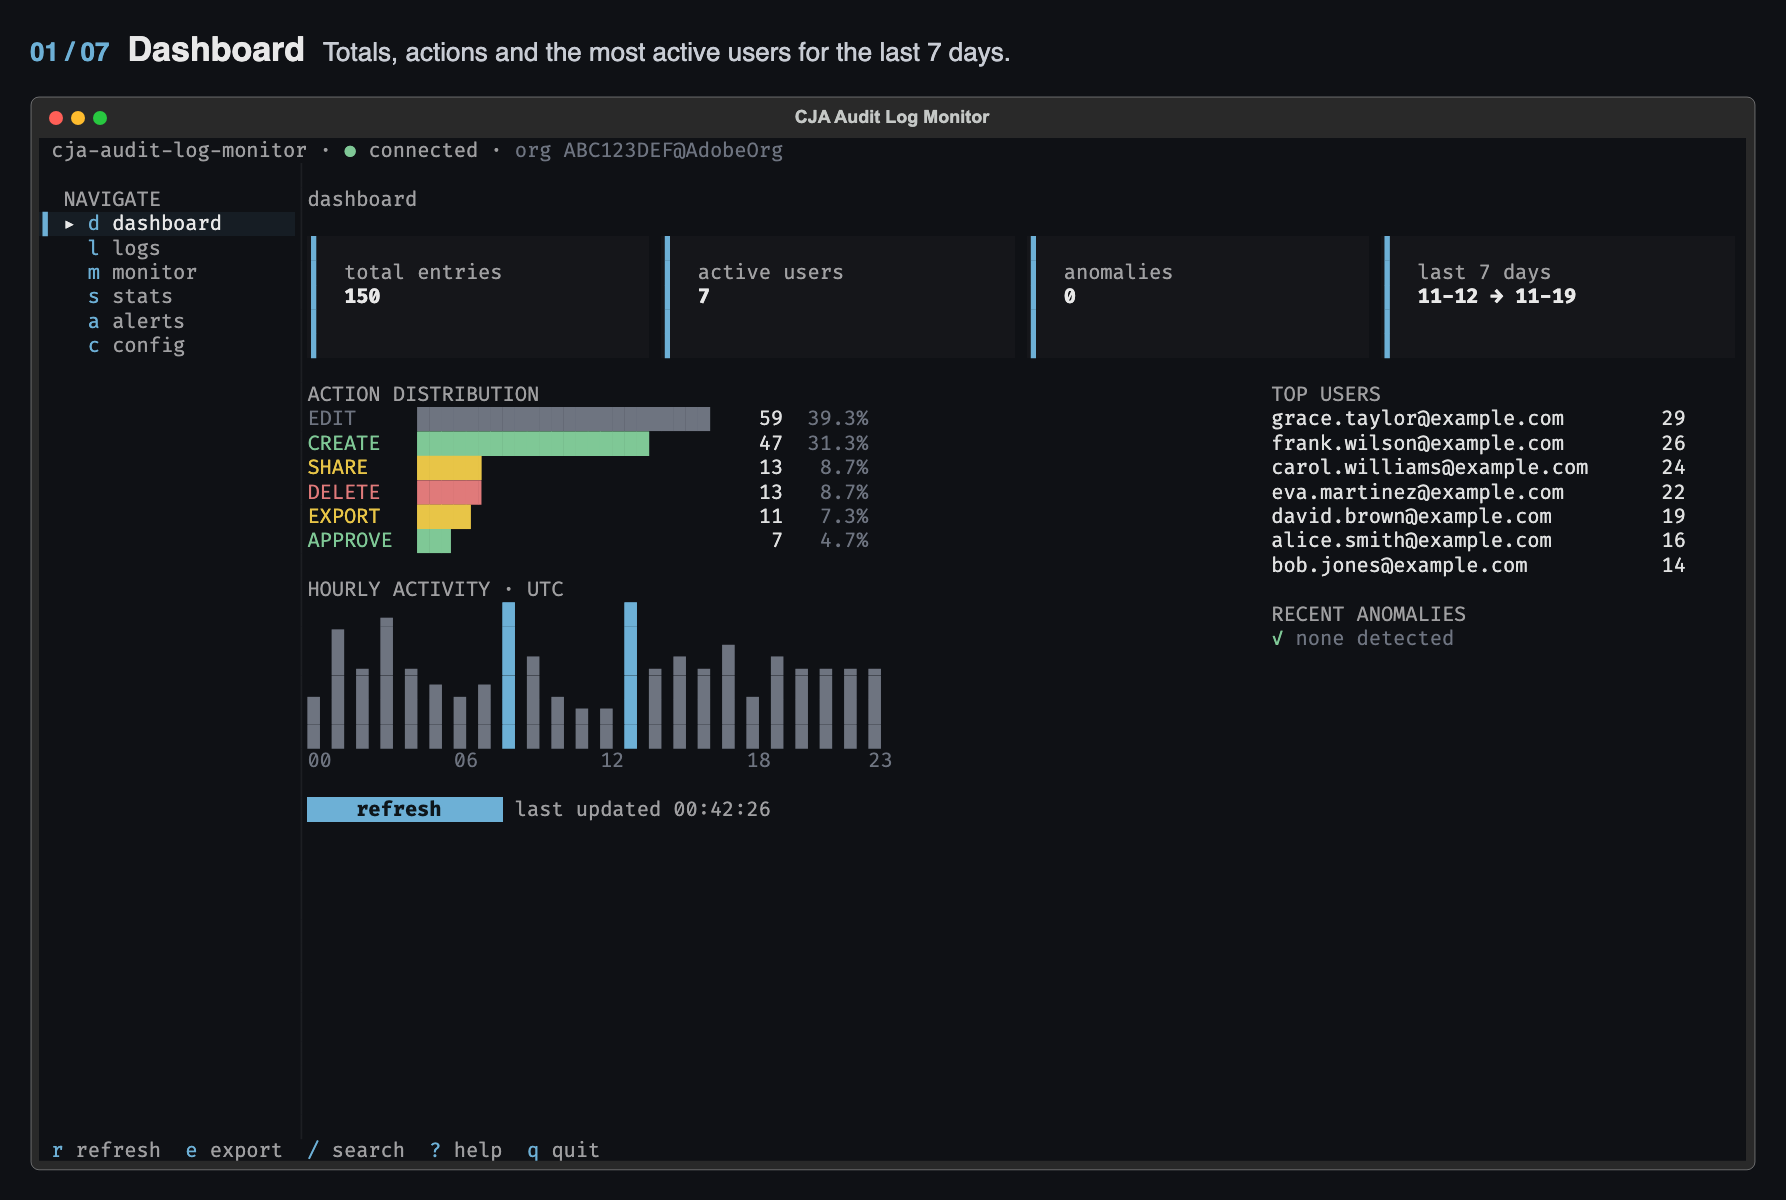
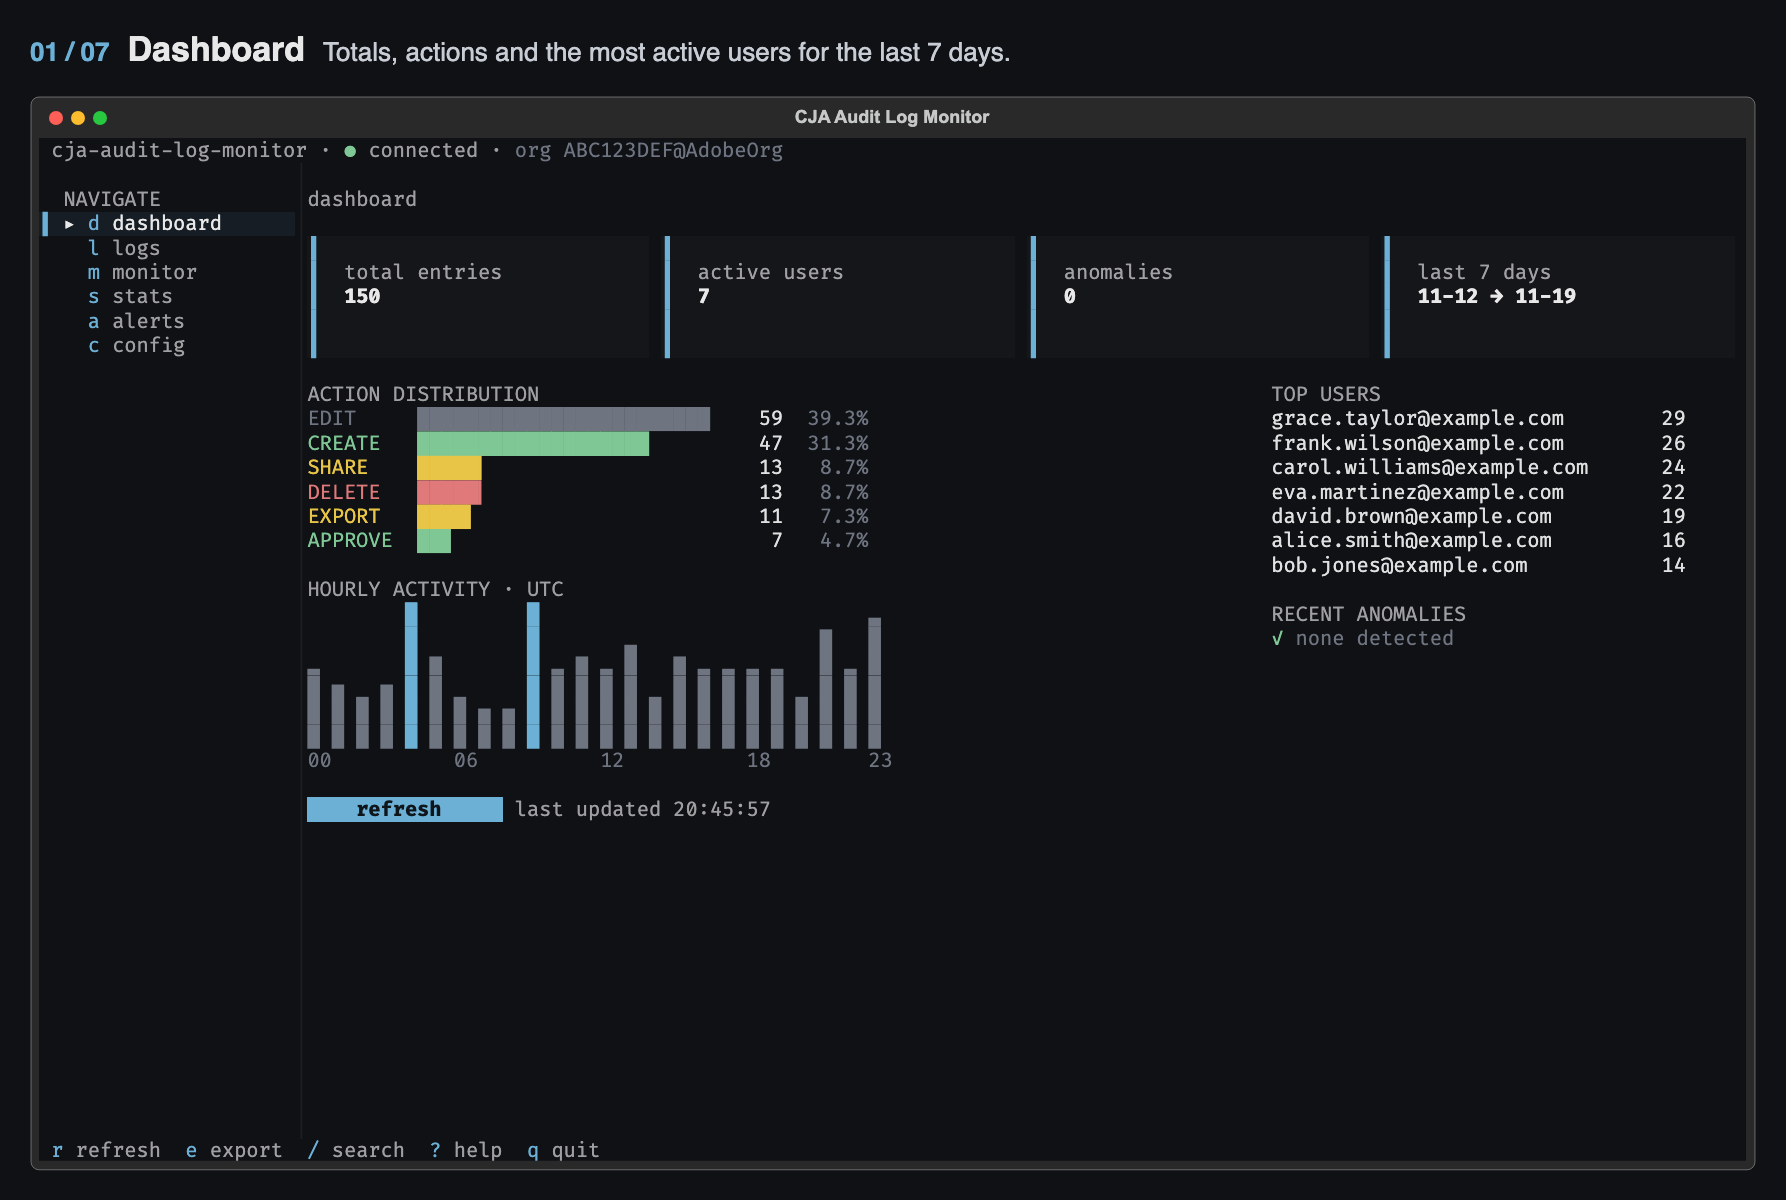
docs: follow-up behaviour and a fresh showcase

Changed region(s): [[0.154, 0.4933, 0.3695, 0.6475], [0.4003, 0.5242, 0.4927, 0.5858], [0.4003, 0.6475, 0.4311, 0.6783]]

diff --git a/docs/cli.md b/docs/cli.md
@@ -330,7 +330,7 @@ Works like `monitor`, but shows only the entries that match the filters. The fil
 | Flag | Default | Meaning |
 |---|---|---|
 | `-i`, `--interval` | 5 | Seconds between polls. The minimum is 5. |
-| `-u`, `--user` | all | A user id or an email address. |
+| `-u`, `--user` | all | A user id, email address or display name. Case does not matter, the same as for a rule's `users:` list. |
 | `--component-id` | all | One component id. |
 | `-a`, `--action` | all | An action type. You can repeat it. |
 | `--alerts` / `--no-alerts` | `--alerts` | Check each new event against the alert rules. |
@@ -348,13 +348,17 @@ cja-audit-log-monitor cli anomalies --watch --interval 600 --lookback 48
 | Flag | Default | Meaning |
 |---|---|---|
 | `--watch` | off | Keep scanning. Without it, the command scans once and exits. |
-| `--interval` | 300 | Seconds between scans with `--watch`. The minimum is 5. |
+| `--interval` | 300 | Seconds between scans with `--watch`, 5 to 86,400. |
 | `--lookback` | 24 | Hours of history to read in each scan. |
 | `-F`, `--output-format` | `table` | `table` or `json`. See [JSON output](#json-output) for `--watch`. |
 
 When a scan finds nothing, the command prints "No anomalies found in the last N hours."
 
+With `--watch`, a failed scan is tried again at the next interval, the same as in `monitor`. A 400, 401, 403 or 404 response, or a login error caused by bad or missing credentials, stops the command with exit code 1, because trying again cannot fix it.
+
 The command always prints what it finds. It sends anomalies to Slack or webhooks only when the config file has a `notifications:` block and `notify_on_anomalies: true`. The default for `notify_on_anomalies` is `false`. See [Anomaly delivery](alert-rules.md#anomaly-delivery) for how repeats are skipped and how failures are reported.
+
+In every JSON output, a user count is an object with the keys `user` and `count`, e.g. `{"user": "someone@example.com", "count": 12}`. Hours of the day are the strings `"00"` to `"23"`.
 
 ## Export commands
 
@@ -381,6 +385,7 @@ How the file is written:
 - The tool checks the output path before it calls the API. It refuses a file that already exists unless you pass `--force`. It also refuses a folder that does not exist or that you cannot write to, a folder given as the file name, a path that ends with `/`, and a file name longer than 255 bytes. Each of these prints one line and exits 1.
 - If a file appears at the path during the export, the tool stops with an error that names the file and `--force`.
 - When no entries match, the tool still writes the file. A JSON file has no entries, and a CSV or TSV file has only the header row. So a scheduled export never leaves an older file in place.
+- The file appears only when the export is complete. If the export stops early, e.g. by Ctrl+C, SIGTERM or SIGHUP, no file and no hidden temp file is left behind.
 - The tool writes to a temporary file in the same folder and then moves it into place. If the export fails partway, no partial file is left, and an existing file stays as it was.
 - A new file can be read only by you (mode 0600). It is written as UTF-8. JSON keeps text that is not ASCII as it is, and it ends with a newline.
 - If the target is a symbolic link, the tool replaces the link with the file. It does not write to the file the link points to.

diff --git a/docs/screens/monitor.md b/docs/screens/monitor.md
@@ -7,7 +7,7 @@ The monitor asks the audit API for new events at a set interval. It adds each ne
 ## What you see
 
 - **The controls**, which are the `▶ start` and `■ stop` buttons and an `interval` box in seconds. The interval box is turned off while the monitor runs.
-- **The status row**, which shows `running`, `stopped` or `error`. After a failed poll, it shows the error text and says that the monitor retries each interval. Its color and its left border change with the state. It also shows the time of the last check, the number of new events and the number of alerts. It updates after every poll.
+- **The status row**, which shows `running`, `stopped` or `error`. After a failed poll, it shows the error text and says that the monitor retries each interval. A 400, 401, 403 or 404 response, or bad or missing credentials, stops the monitor instead, as in the CLI, because trying again cannot fix it. A toast gives the reason. Its color and its left border change with the state. It also shows the time of the last check, the number of new events and the number of alerts. It updates after every poll.
 - **The live log stream**, a table with the same colored action column as the log browser.
   - The newest event is at the bottom.
   - When the cursor is on the last row, the view follows new rows as they arrive. When you move the cursor up, the view stays where you put it.

diff --git a/docs/screens/statistics.md b/docs/screens/statistics.md
@@ -8,7 +8,7 @@ The statistics view shows charts and a user ranking for the number of days you c
 
 - **The window control**, which is a `days` box and an `update` button. The box starts at `default_days` from the config file, which is 7 unless you change it. The control stays on screen even when the window has no activity, so you can make the window longer.
 - **Stat cards** with the total number of entries in the window, the number of active users, and the dates of the window. When the window has more than 5,000 entries, a note says that the charts use the newest 5,000.
-- **An action chart** and an **hourly activity chart**, side by side. Hours and days are in your local time zone. The busiest hour is highlighted.
+- **An action chart** and an **hourly activity chart**, side by side. On a screen 160 columns wide or more, the hourly chart grows to use the free height. Hours and days are in your local time zone. The busiest hour is highlighted.
 - **A daily activity chart** with one bar for each of the last 14 days in the window, and a **user ranking** of the top 10 users by action count.
 - **A loading message** in each chart while the data loads.
 
